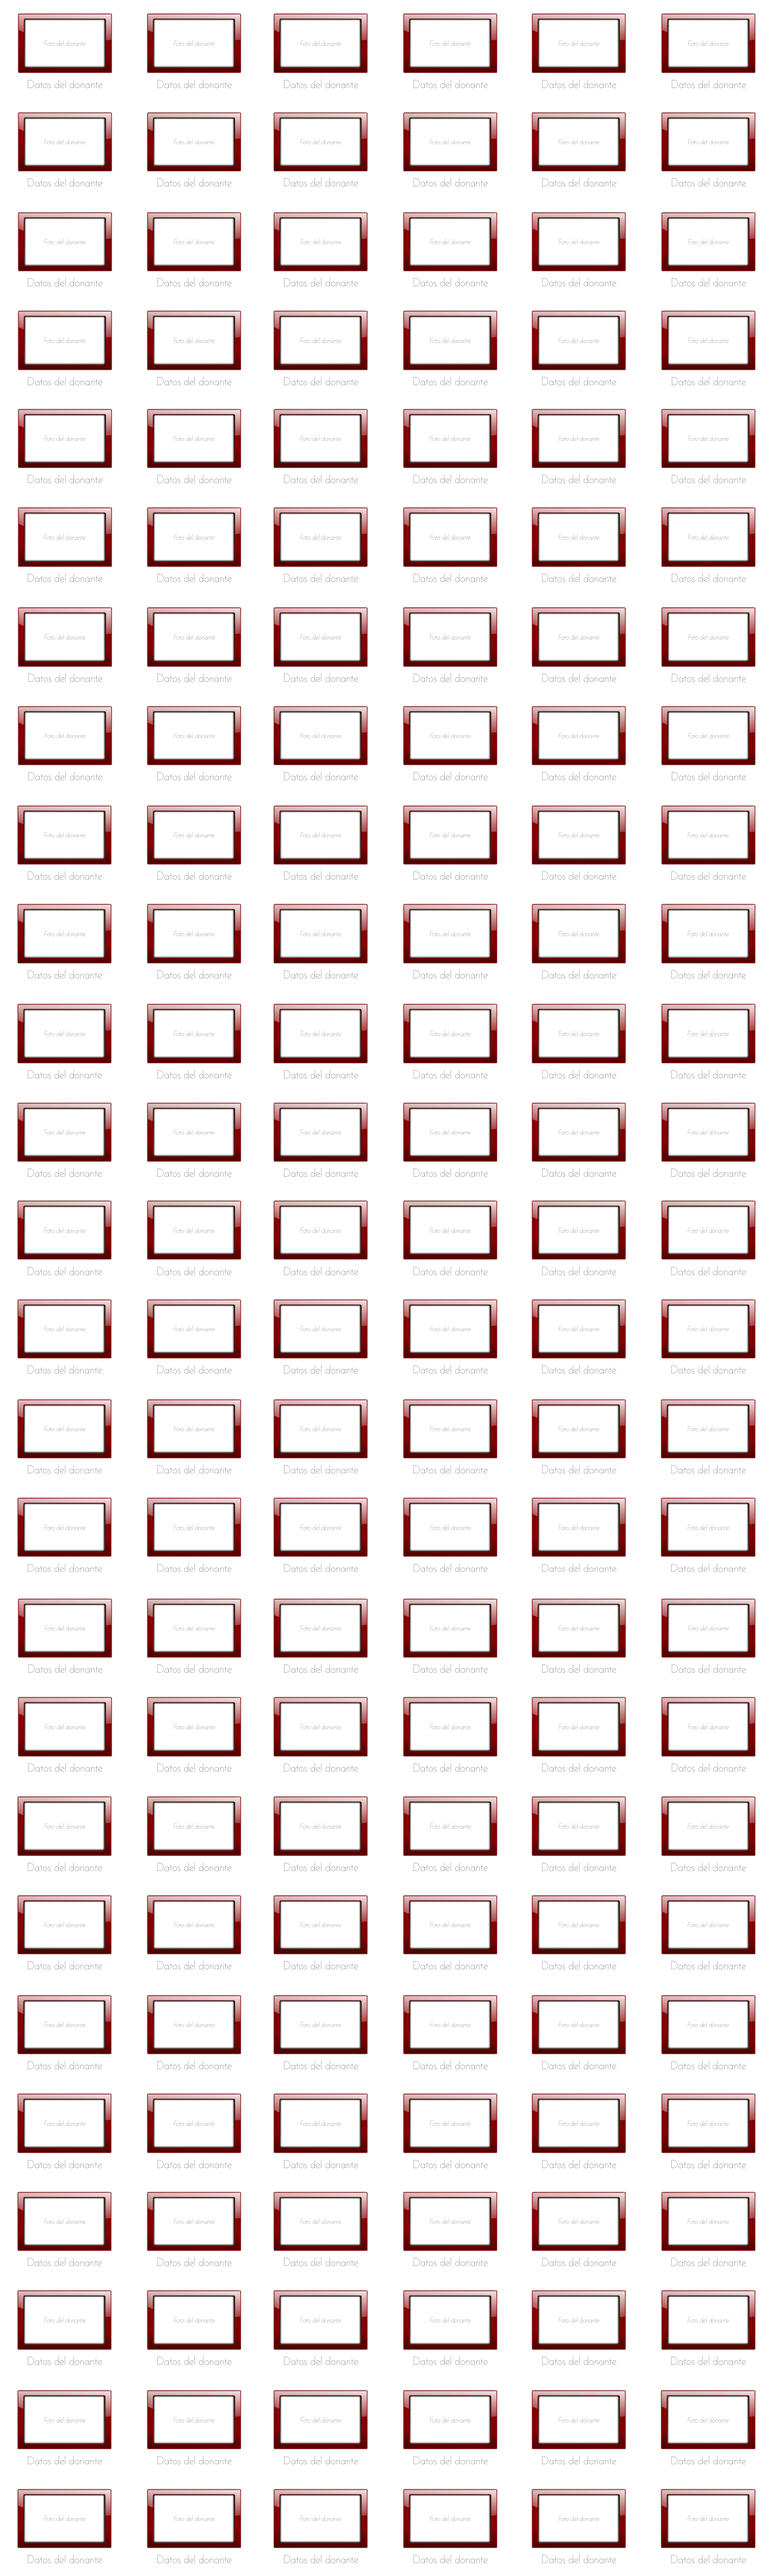
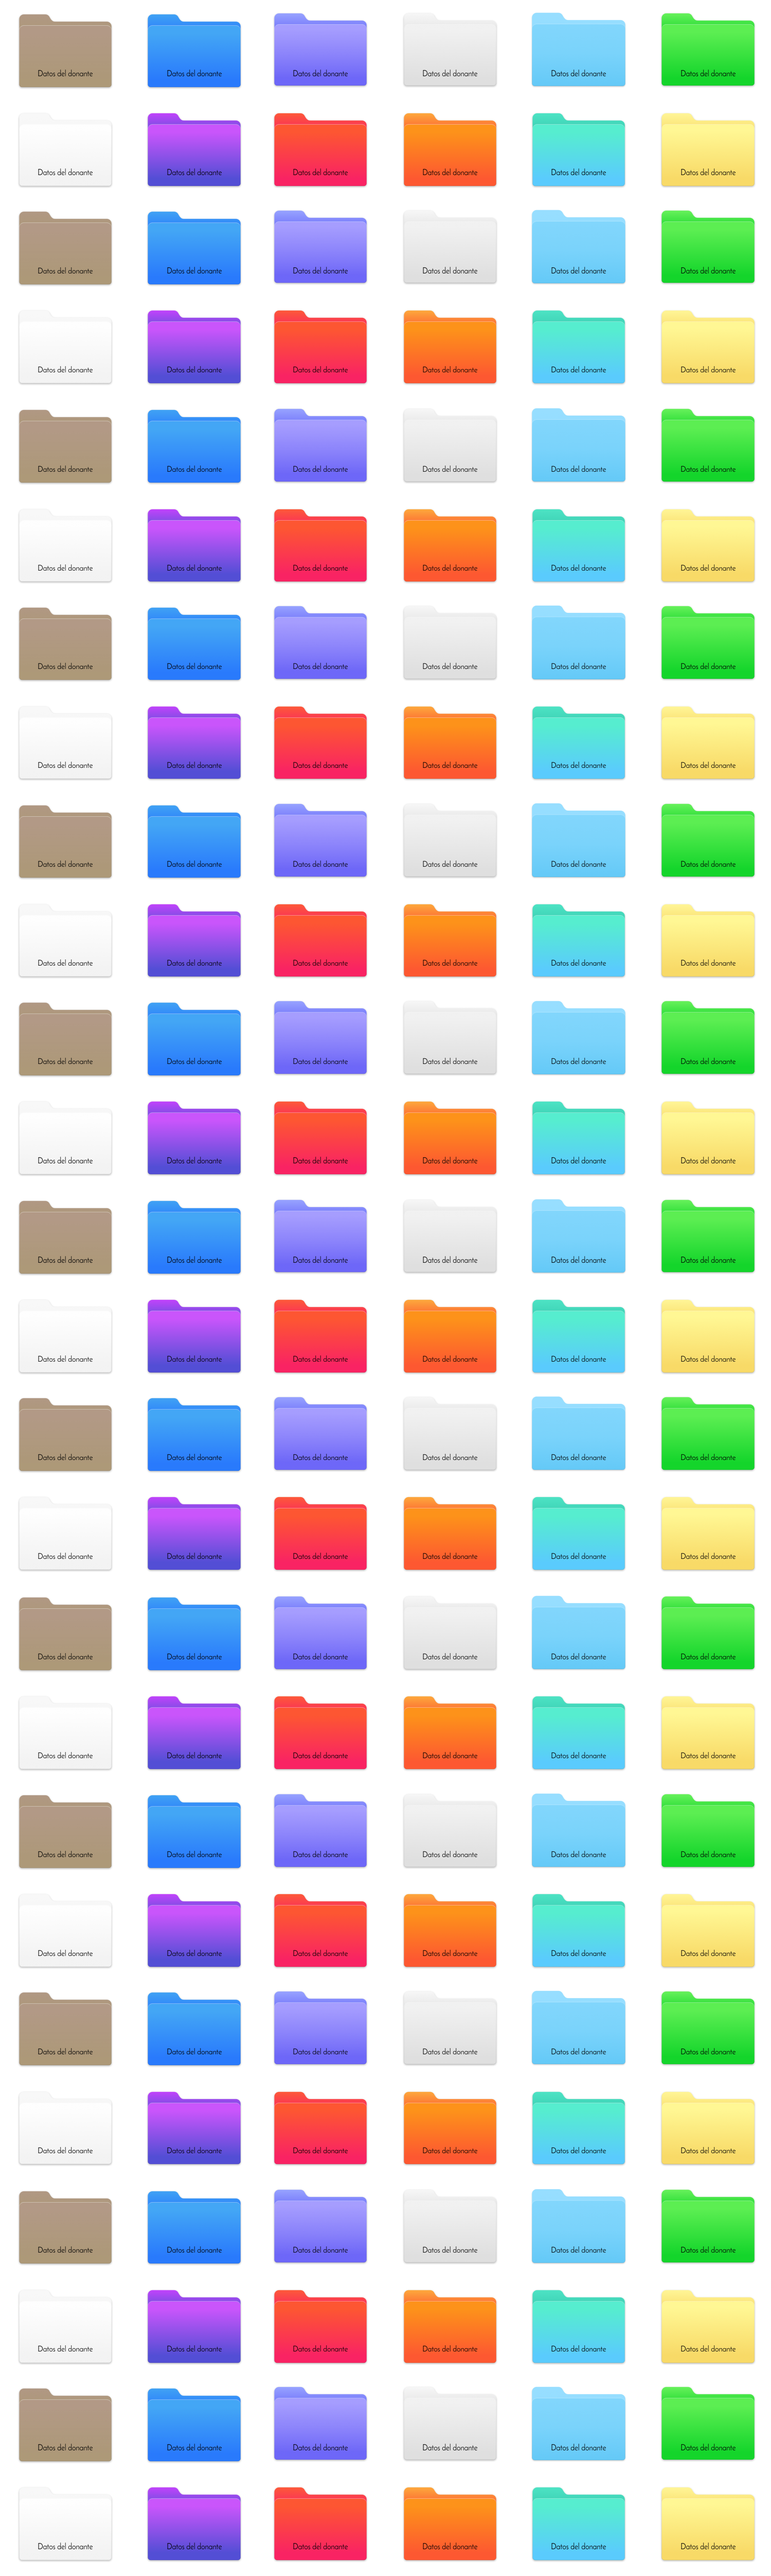
imagen donantes

diff --git a/sub_paginas/donantes.html b/sub_paginas/donantes.html
@@ -7,7 +7,7 @@
 #apDiv1 {
 	position: absolute;
 	width: 1300px;
-	height: 4352px;
+	height: 4200px;
 	z-index: 1;
 	left: 25px;
 	top: 21px;
@@ -19,7 +19,7 @@ body {
 </head>
 
 <body>
-<div id="apDiv1"><img src="../imagenes/donantes.png" width="1300" height="4352" /></div><script language="javascript">
+<div id="apDiv1"><img src="../imagenes/donantes.png" width="1300" height="4200" /></div><script language="javascript">
 <!-- Begin
 document.oncontextmenu = function(){return false}
 // End -->
